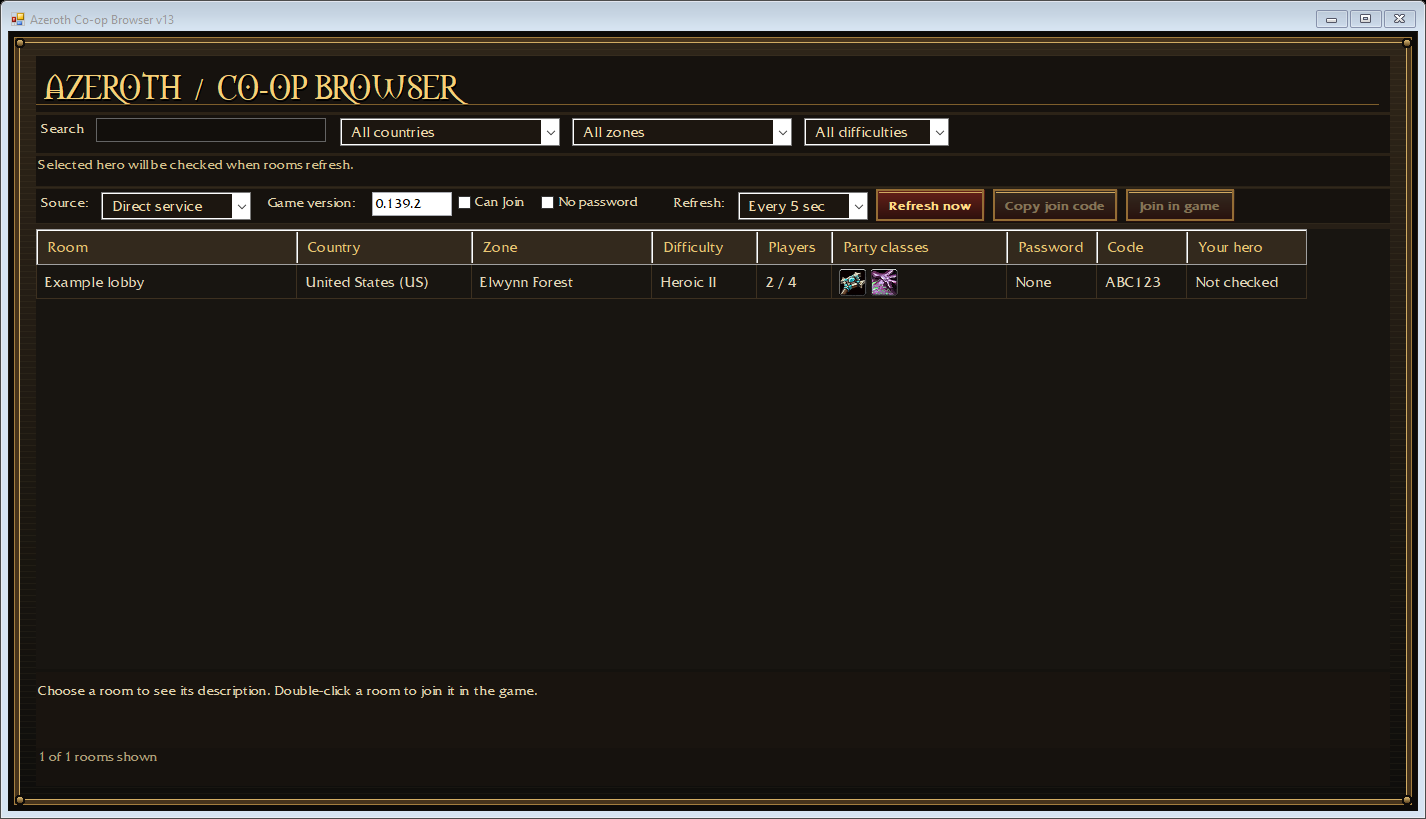
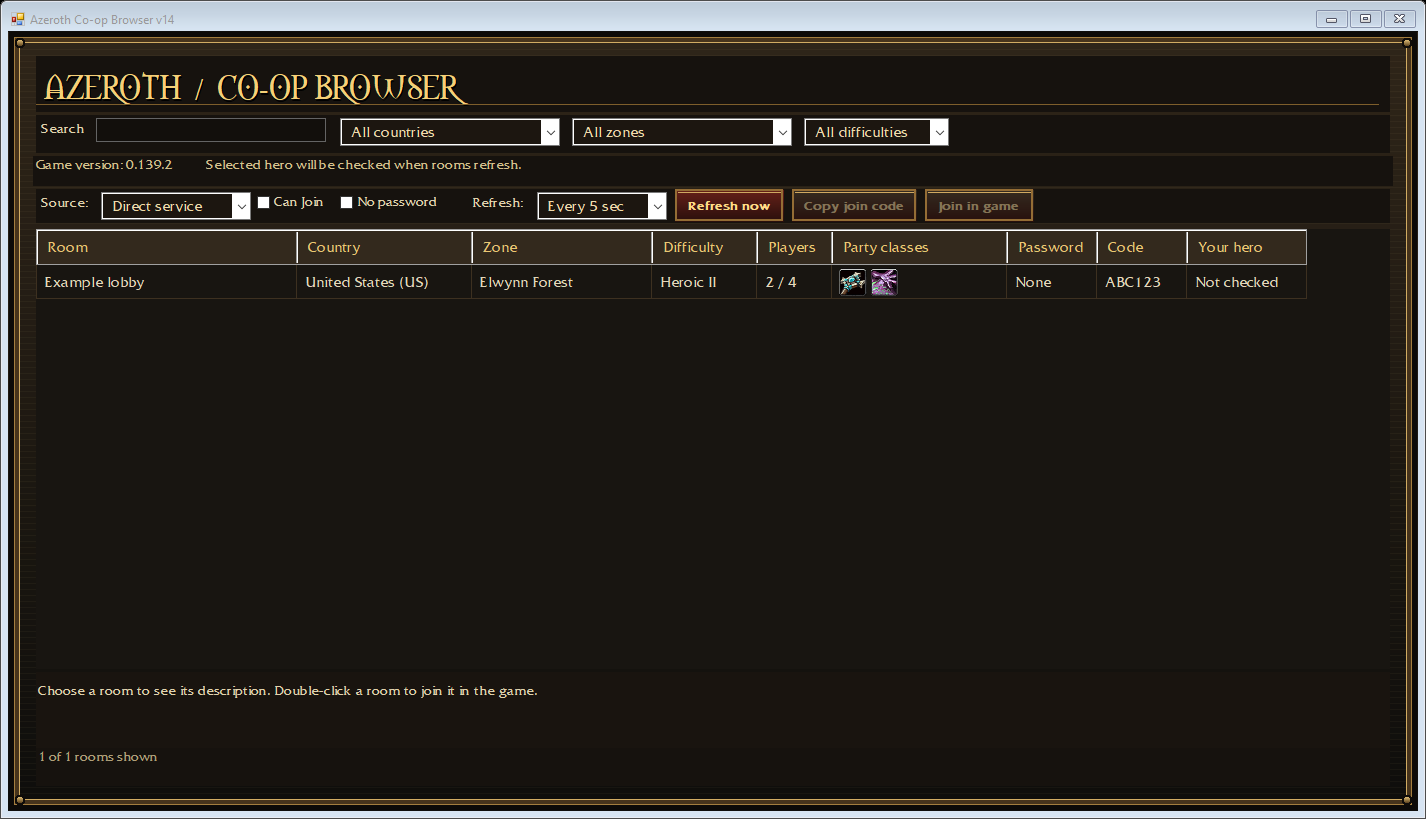
Move detected game version beside selected hero as read-only text

Changed region(s): [[0.0309, 0.1832, 0.864, 0.2747]]

diff --git a/src/Browser.cs b/src/Browser.cs
@@ -18,11 +18,11 @@ sealed class BrowserForm : Form {
     readonly DataGridView grid=new WarcraftGrid();readonly TextBox search=new TextBox();
     readonly ComboBox country=new WarcraftComboBox(),zone=new WarcraftComboBox(),difficulty=new WarcraftComboBox(),interval=new WarcraftComboBox();
     readonly CheckBox canJoin=new CheckBox(),noPassword=new CheckBox();
-    readonly Label status=new Label(),details=new Label(),heroLabel=new Label();readonly HeroUnlockReader heroReader=new HeroUnlockReader();HeroUnlockState heroState;readonly Button refresh=new WarcraftButton(),copy=new WarcraftButton(),join=new WarcraftButton();
-    readonly ComboBox source=new WarcraftComboBox();readonly TextBox version=new TextBox();DirectLobbyReader directReader;
+    readonly Label status=new Label(),details=new Label(),heroLabel=new Label(),versionLabel=new Label();readonly HeroUnlockReader heroReader=new HeroUnlockReader();HeroUnlockState heroState;readonly Button refresh=new WarcraftButton(),copy=new WarcraftButton(),join=new WarcraftButton();
+    readonly ComboBox source=new WarcraftComboBox();string gameVersion,versionIdentity;DirectLobbyReader directReader;
     readonly Timer timer=new Timer();List<Lobby> rooms=new List<Lobby>();LobbyReader reader;bool busy,joining,filtering,closeRequested,stale;
     internal BrowserForm(bool connectOnShow=true){
-        Text="Azeroth Co-op Browser v13";ClientSize=new Size(1410,780);MinimumSize=new Size(1020,650);StartPosition=FormStartPosition.CenterScreen;
+        Text="Azeroth Co-op Browser v14";ClientSize=new Size(1410,780);MinimumSize=new Size(1020,650);StartPosition=FormStartPosition.CenterScreen;
         Font=WarcraftFonts.Body();BackColor=Color.FromArgb(22,18,14);ForeColor=Color.FromArgb(225,211,173);
         var root=new WarcraftPanel{Dock=DockStyle.Fill,Padding=new Padding(25),ColumnCount=1,RowCount=7};
         root.RowStyles.Add(new RowStyle(SizeType.Absolute,56));root.RowStyles.Add(new RowStyle(SizeType.Absolute,44));root.RowStyles.Add(new RowStyle(SizeType.Absolute,30));root.RowStyles.Add(new RowStyle(SizeType.Absolute,40));root.RowStyles.Add(new RowStyle(SizeType.Percent,100));root.RowStyles.Add(new RowStyle(SizeType.Absolute,76));root.RowStyles.Add(new RowStyle(SizeType.Absolute,38));Controls.Add(root);
@@ -32,10 +32,14 @@ sealed class BrowserForm : Form {
         search.BackColor=Color.FromArgb(18,15,12);search.ForeColor=ForeColor;search.BorderStyle=BorderStyle.FixedSingle;search.Width=230;search.Margin=new Padding(0,3,14,3);filters.Controls.Add(search);
         foreach(var c in new[]{country,zone,difficulty}){WarcraftTheme.Combo(c);c.DropDownStyle=ComboBoxStyle.DropDownList;c.Width=c==country?220:c==zone?220:145;c.Margin=new Padding(0,3,12,3);filters.Controls.Add(c);c.SelectedIndexChanged+=delegate{if(!filtering)Render();};}
         country.Items.Add("All countries");zone.Items.Add("All zones");difficulty.Items.Add("All difficulties");country.SelectedIndex=zone.SelectedIndex=difficulty.SelectedIndex=0;
-        var tools=new FlowLayoutPanel{Dock=DockStyle.Fill,WrapContents=false};root.Controls.Add(tools,0,3);heroLabel.Text="Selected hero will be checked when rooms refresh.";heroLabel.Dock=DockStyle.Fill;heroLabel.ForeColor=Color.FromArgb(213,193,140);root.Controls.Add(heroLabel,0,2);
+        var tools=new FlowLayoutPanel{Dock=DockStyle.Fill,WrapContents=false};root.Controls.Add(tools,0,3);
+        gameVersion=DirectLobbyReader.DetectVersion();versionIdentity=GameVersionIdentity();
+        var identity=new TableLayoutPanel{Dock=DockStyle.Fill,ColumnCount=2,RowCount=1,Margin=Padding.Empty};identity.ColumnStyles.Add(new ColumnStyle(SizeType.AutoSize));identity.ColumnStyles.Add(new ColumnStyle(SizeType.Percent,100));root.Controls.Add(identity,0,2);
+        versionLabel.Text="Game version: "+gameVersion;versionLabel.AutoSize=true;versionLabel.Margin=new Padding(0,0,18,0);versionLabel.ForeColor=Color.FromArgb(213,193,140);identity.Controls.Add(versionLabel,0,0);
+        heroLabel.Text="Selected hero will be checked when rooms refresh.";heroLabel.Dock=DockStyle.Fill;heroLabel.Margin=Padding.Empty;heroLabel.ForeColor=Color.FromArgb(213,193,140);identity.Controls.Add(heroLabel,1,0);
         canJoin.Text="Can Join";canJoin.AutoSize=true;
         noPassword.Text="No password";noPassword.AutoSize=true;
-        tools.Controls.Add(new Label{Text="Source:",AutoSize=true,Padding=new Padding(0,5,3,0)});WarcraftTheme.Combo(source);source.DropDownStyle=ComboBoxStyle.DropDownList;source.Width=150;source.Items.AddRange(new object[]{"Direct service","Game view"});source.SelectedIndex=0;tools.Controls.Add(source);tools.Controls.Add(new Label{Text="Game version:",AutoSize=true,Padding=new Padding(8,5,3,0)});version.Width=80;version.Text=DirectLobbyReader.DetectVersion();tools.Controls.Add(version);canJoin.Enabled=true;tools.Controls.Add(canJoin);tools.Controls.Add(noPassword);tools.Controls.Add(new Label{Text="Refresh:",AutoSize=true,Padding=new Padding(16,5,3,0)});
+        tools.Controls.Add(new Label{Text="Source:",AutoSize=true,Padding=new Padding(0,5,3,0)});WarcraftTheme.Combo(source);source.DropDownStyle=ComboBoxStyle.DropDownList;source.Width=150;source.Items.AddRange(new object[]{"Direct service","Game view"});source.SelectedIndex=0;tools.Controls.Add(source);canJoin.Enabled=true;tools.Controls.Add(canJoin);tools.Controls.Add(noPassword);tools.Controls.Add(new Label{Text="Refresh:",AutoSize=true,Padding=new Padding(16,5,3,0)});
         WarcraftTheme.Combo(interval);interval.DropDownStyle=ComboBoxStyle.DropDownList;interval.Width=130;interval.Items.AddRange(new object[]{"Manual","Every 1 sec","Every 3 sec","Every 5 sec","Every 10 sec"});interval.SelectedIndex=3;timer.Interval=5000;tools.Controls.Add(interval);
         refresh.Text="Refresh now";refresh.AutoSize=true;tools.Controls.Add(refresh);copy.Text="Copy join code";copy.AutoSize=true;copy.Enabled=false;tools.Controls.Add(copy);join.Text="Join in game";join.AutoSize=true;join.Enabled=false;tools.Controls.Add(join);
         grid.Dock=DockStyle.Fill;grid.ReadOnly=true;grid.AllowUserToAddRows=grid.AllowUserToDeleteRows=grid.AllowUserToResizeRows=false;grid.MultiSelect=false;grid.SelectionMode=DataGridViewSelectionMode.FullRowSelect;
@@ -47,11 +51,23 @@ sealed class BrowserForm : Form {
         grid.CellPainting+=PaintClasses;
         root.Controls.Add(grid,0,4);details.BackColor=Color.FromArgb(25,20,15);details.Dock=DockStyle.Fill;details.Padding=new Padding(0,10,0,0);root.Controls.Add(details,0,5);
         status.Dock=DockStyle.Fill;status.Text="Direct service reads rooms without the game or its Co-op window open.";status.ForeColor=Color.FromArgb(176,160,121);root.Controls.Add(status,0,6);
-        source.SelectedIndexChanged+=delegate{ChangeSource();};version.TextChanged+=delegate{if(directReader!=null){directReader.Dispose();directReader=null;}stale=true;copy.Enabled=join.Enabled=false;};search.TextChanged+=delegate{Render();};canJoin.CheckedChanged+=delegate{Render();};noPassword.CheckedChanged+=delegate{Render();};refresh.Click+=async delegate{await RefreshRooms();};
+        source.SelectedIndexChanged+=delegate{ChangeSource();};search.TextChanged+=delegate{Render();};canJoin.CheckedChanged+=delegate{Render();};noPassword.CheckedChanged+=delegate{Render();};refresh.Click+=async delegate{await RefreshRooms();};
         interval.SelectedIndexChanged+=delegate{timer.Stop();if(interval.SelectedIndex>0){timer.Interval=new[]{0,1000,3000,5000,10000}[interval.SelectedIndex];if(connectOnShow&&Visible)timer.Start();}};
         timer.Tick+=async delegate{await RefreshRooms();};grid.SelectionChanged+=delegate{ShowDetails();};grid.CellDoubleClick+=async delegate(object s,DataGridViewCellEventArgs e){if(e.RowIndex>=0&&e.RowIndex<grid.Rows.Count)await JoinRoom(grid.Rows[e.RowIndex].Tag as Lobby);};copy.Click+=delegate{CopyCode();};join.Click+=async delegate{await JoinRoom(Selected());};
         FormClosing+=delegate(object sender,FormClosingEventArgs e){if(busy||joining){closeRequested=true;timer.Stop();e.Cancel=true;status.Text="Finishing the current capture and disconnecting...";}};
         FormClosed+=delegate{timer.Dispose();heroReader.Dispose();if(directReader!=null)directReader.Dispose();if(reader!=null)try{reader.Dispose();}catch(Exception e){MessageBox.Show("The lobby reader could not detach. Restart the game before reconnecting.\n"+e.Message,"Lobby reader",MessageBoxButtons.OK,MessageBoxIcon.Information);}};Shown+=async delegate{if(connectOnShow){await RefreshRooms();if(!closeRequested&&!IsDisposed&&interval.SelectedIndex>0)timer.Start();}};
+    }
+    static string GameVersionIdentity(){
+        var games=System.Diagnostics.Process.GetProcessesByName("AzerothSurvivors");
+        try{if(games.Length!=1)return "none";string path=games[0].MainModule.FileName;return games[0].Id+":"+File.GetLastWriteTimeUtc(path).Ticks;}catch{return "unavailable";}finally{foreach(var game in games)game.Dispose();}
+    }
+    async Task UpdateGameVersion(){
+        string identity=GameVersionIdentity();if(identity==versionIdentity)return;
+        if(identity!="none"&&identity!="unavailable"){
+            string detected=await Task.Run(()=>DirectLobbyReader.DetectVersion());
+            if(detected!=gameVersion){if(directReader!=null){directReader.Dispose();directReader=null;}gameVersion=detected;versionLabel.Text="Game version: "+gameVersion;}
+        }
+        versionIdentity=identity;
     }
     void PaintClasses(object sender,DataGridViewCellPaintingEventArgs e){
         if(e.RowIndex<0||e.ColumnIndex<0||grid.Columns[e.ColumnIndex].Name!="Party classes")return;
@@ -72,7 +88,7 @@ sealed class BrowserForm : Form {
         if(room.EligibilityKnown&&!room.Opened){status.Text="This room is locked for the selected hero.";return;}
         if(!rooms.Any(r=>object.ReferenceEquals(r,room))){status.Text="The room list changed. Select the room again.";return;}
         string password="";
-        joining=true;timer.Stop();join.Enabled=refresh.Enabled=copy.Enabled=source.Enabled=version.Enabled=false;
+        joining=true;timer.Stop();join.Enabled=refresh.Enabled=copy.Enabled=source.Enabled=false;
         try{
             if(room.Password){using(var prompt=new JoinPasswordForm(room.Name)){if(prompt.ShowDialog(this)!=DialogResult.OK)return;password=prompt.Password;}}
             status.Text="Sending join request to Azeroth Survivors...";
@@ -85,7 +101,7 @@ sealed class BrowserForm : Form {
             if(result.Item1!=IntPtr.Zero)JoinWindow.Focus(result.Item1);
         }catch(Exception e){status.Text="Could not join: "+e.Message;}
         finally{
-            password=null;joining=false;refresh.Enabled=source.Enabled=true;version.Enabled=source.SelectedIndex==0;ShowDetails();
+            password=null;joining=false;refresh.Enabled=source.Enabled=true;ShowDetails();
             if(closeRequested)Close();else if(interval.SelectedIndex>0)timer.Start();
         }
     }
@@ -94,15 +110,15 @@ sealed class BrowserForm : Form {
         if(busy||joining)return;
         if(directReader!=null){directReader.Dispose();directReader=null;}
         if(reader!=null){try{reader.Dispose();reader=null;}catch(Exception e){status.Text=e.Message;return;}}
-        canJoin.Checked=false;canJoin.Enabled=true;heroState=null;heroLabel.Text=source.SelectedIndex==0?"Selected hero will be checked when rooms refresh.":"Game view supplies hero eligibility.";version.Enabled=source.SelectedIndex==0;rooms.Clear();Render();stale=true;copy.Enabled=join.Enabled=false;
+        canJoin.Checked=false;canJoin.Enabled=true;heroState=null;heroLabel.Text=source.SelectedIndex==0?"Selected hero will be checked when rooms refresh.":"Game view supplies hero eligibility.";rooms.Clear();Render();stale=true;copy.Enabled=join.Enabled=false;
         status.Text=source.SelectedIndex==0?"Direct service: the game can stay on its main screen to check the selected hero.":"Game view: leave Co-op > Lobbies open to read hero eligibility.";
     }
     internal async Task RefreshRooms(){
-        if(busy||joining||IsDisposed||closeRequested)return;busy=true;refresh.Enabled=false;source.Enabled=false;version.Enabled=false;status.Text=source.SelectedIndex==0?"Requesting rooms from the lobby service...":"Reading the game's live room list...";
+        if(busy||joining||IsDisposed||closeRequested)return;busy=true;refresh.Enabled=false;source.Enabled=false;status.Text=source.SelectedIndex==0?"Requesting rooms from the lobby service...":"Reading the game's live room list...";
         bool direct=source.SelectedIndex==0;
         try{
             List<Lobby> next;
-            if(direct){if(directReader==null)directReader=new DirectLobbyReader(version.Text.Trim());next=await Task.Run(()=>directReader.ReadRooms());}
+            if(direct){await UpdateGameVersion();if(directReader==null)directReader=new DirectLobbyReader(gameVersion);next=await Task.Run(()=>directReader.ReadRooms());}
             else{if(reader==null)reader=await Task.Run(()=>LobbyReader.Connect());next=await Task.Run(()=>reader.ReadRooms());}
             if(IsDisposed)return;
             if(direct){
@@ -114,7 +130,7 @@ sealed class BrowserForm : Form {
             filtering=true;try{UpdateFilter(country,"All countries",rooms.Select(r=>r.CountryLabel));UpdateFilter(zone,"All zones",rooms.Select(r=>r.Zone));UpdateFilter(difficulty,"All difficulties",rooms.Select(r=>r.Difficulty));}finally{filtering=false;}
             Render();status.Text=grid.Rows.Count+" of "+rooms.Count+" rooms returned | Read at "+DateTime.Now.ToString("HH:mm:ss")+(direct?(heroState!=null?" | Direct service; hero checked":" | Direct service; hero unchecked"):" | Keep the game's lobby list open");
         }catch(Exception e){if(!IsDisposed){stale=true;status.Text=e.Message+" Previous list is not refreshed.";copy.Enabled=join.Enabled=false;}if(directReader!=null){directReader.Dispose();directReader=null;}if(reader!=null){try{reader.Dispose();}catch(Exception cleanup){status.Text+=" Detach: "+cleanup.Message;}reader=null;}}
-        finally{busy=false;if(!IsDisposed){refresh.Enabled=true;source.Enabled=true;version.Enabled=source.SelectedIndex==0;if(closeRequested)Close();}}
+        finally{busy=false;if(!IsDisposed){refresh.Enabled=true;source.Enabled=true;if(closeRequested)Close();}}
     }
     static void UpdateFilter(ComboBox box,string all,IEnumerable<string> values){string selected=box.SelectedItem as string??all;var entries=new[]{all}.Concat(values.Distinct().OrderBy(s=>s)).ToArray();if(!entries.Contains(selected))entries=entries.Concat(new[]{selected}).ToArray();box.Items.Clear();box.Items.AddRange(entries);box.SelectedItem=selected;}
     void Render(){

diff --git a/src/DirectLobbyReader.cs b/src/DirectLobbyReader.cs
@@ -23,7 +23,7 @@ sealed class DirectLobbyReader : IDisposable {
     string found=Encoding.ASCII.GetString(b,start,end-start);if(Regex.IsMatch(found,"^[0-9]+\\.[0-9]+\\.[0-9]+$"))return found;
    }
   }catch{}
-  return "0.139.0";
+  return "0.139.2";
  }
  internal static byte[] Hello(string version){using(var m=new MemoryStream())using(var w=new BinaryWriter(m,Encoding.UTF8)){
   w.Write((byte)1);w.Write((uint)3);byte[] text=Encoding.UTF8.GetBytes(version);w.Write((uint)text.Length);w.Write(text);w.Write((uint)0);w.Write((byte)1);return m.ToArray();

diff --git a/README.md b/README.md
@@ -27,7 +27,7 @@ Download the executable from [Releases](https://github.com/supercalfrag/azeroth-
 
 1. Open `AzerothCoopBrowser.exe`.
 2. Leave **Source** set to **Direct service**.
-3. Check the game version field matches the version you play. It detects a running game, or a game executable beside the browser; otherwise enter the version manually.
+3. The game version appears as text to the left of the selected hero. It detects a running game, or a game executable beside the browser, and rechecks when the running game changes. With no game available it starts from the packaged fallback version; the last detected version is retained when you close the game.
 4. Refresh and set your filters.
 5. Double-click a room to join. For a protected room, enter its password in the browser prompt. The game is brought forward after the request is submitted.
 
@@ -39,7 +39,7 @@ The one-second option polls for a list; it is not a guarantee of one-second fres
 
 ## Compatibility and limitations
 
[2 lines of base64/hex data omitted]
 
 Normal-zone eligibility uses the selected class's unlocked zone count. Heroic eligibility requires that class's Normal clear plus the account's completed Heroic tiers, capped at V. Unsupported zones or data are marked unchecked.
 

diff --git a/AI_DEVELOPMENT.md b/AI_DEVELOPMENT.md
@@ -33,7 +33,7 @@ Do not infer permission to join, host, message players, change saves, or add che
 
 ## Updating compatibility
 
-The direct-service version field selects listings for a version; it is not a multiplayer compatibility bypass. The hero reader deliberately has no version/hash gate; it requires unique resource ownership and validated, stable data. Preserve those data checks. Native joining still requires its inspected executable hash and exact live-code verification because it writes a temporary bridge. Game view requires a unique native renderer match and validated layout. A future update can move code or fields; never relax validation solely to silence an error.
+The detected game version selects direct-service listings for that version; it is not a multiplayer compatibility bypass. The hero reader deliberately has no version/hash gate; it requires unique resource ownership and validated, stable data. Preserve those data checks. Native joining still requires its inspected executable hash and exact live-code verification because it writes a temporary bridge. Game view requires a unique native renderer match and validated layout. A future update can move code or fields; never relax validation solely to silence an error.
 
 The capture hook must restore original instructions before its memory is released, with thread-position checks. Review close/error paths as carefully as successful installation. Do not run two capture readers against one game.
 
